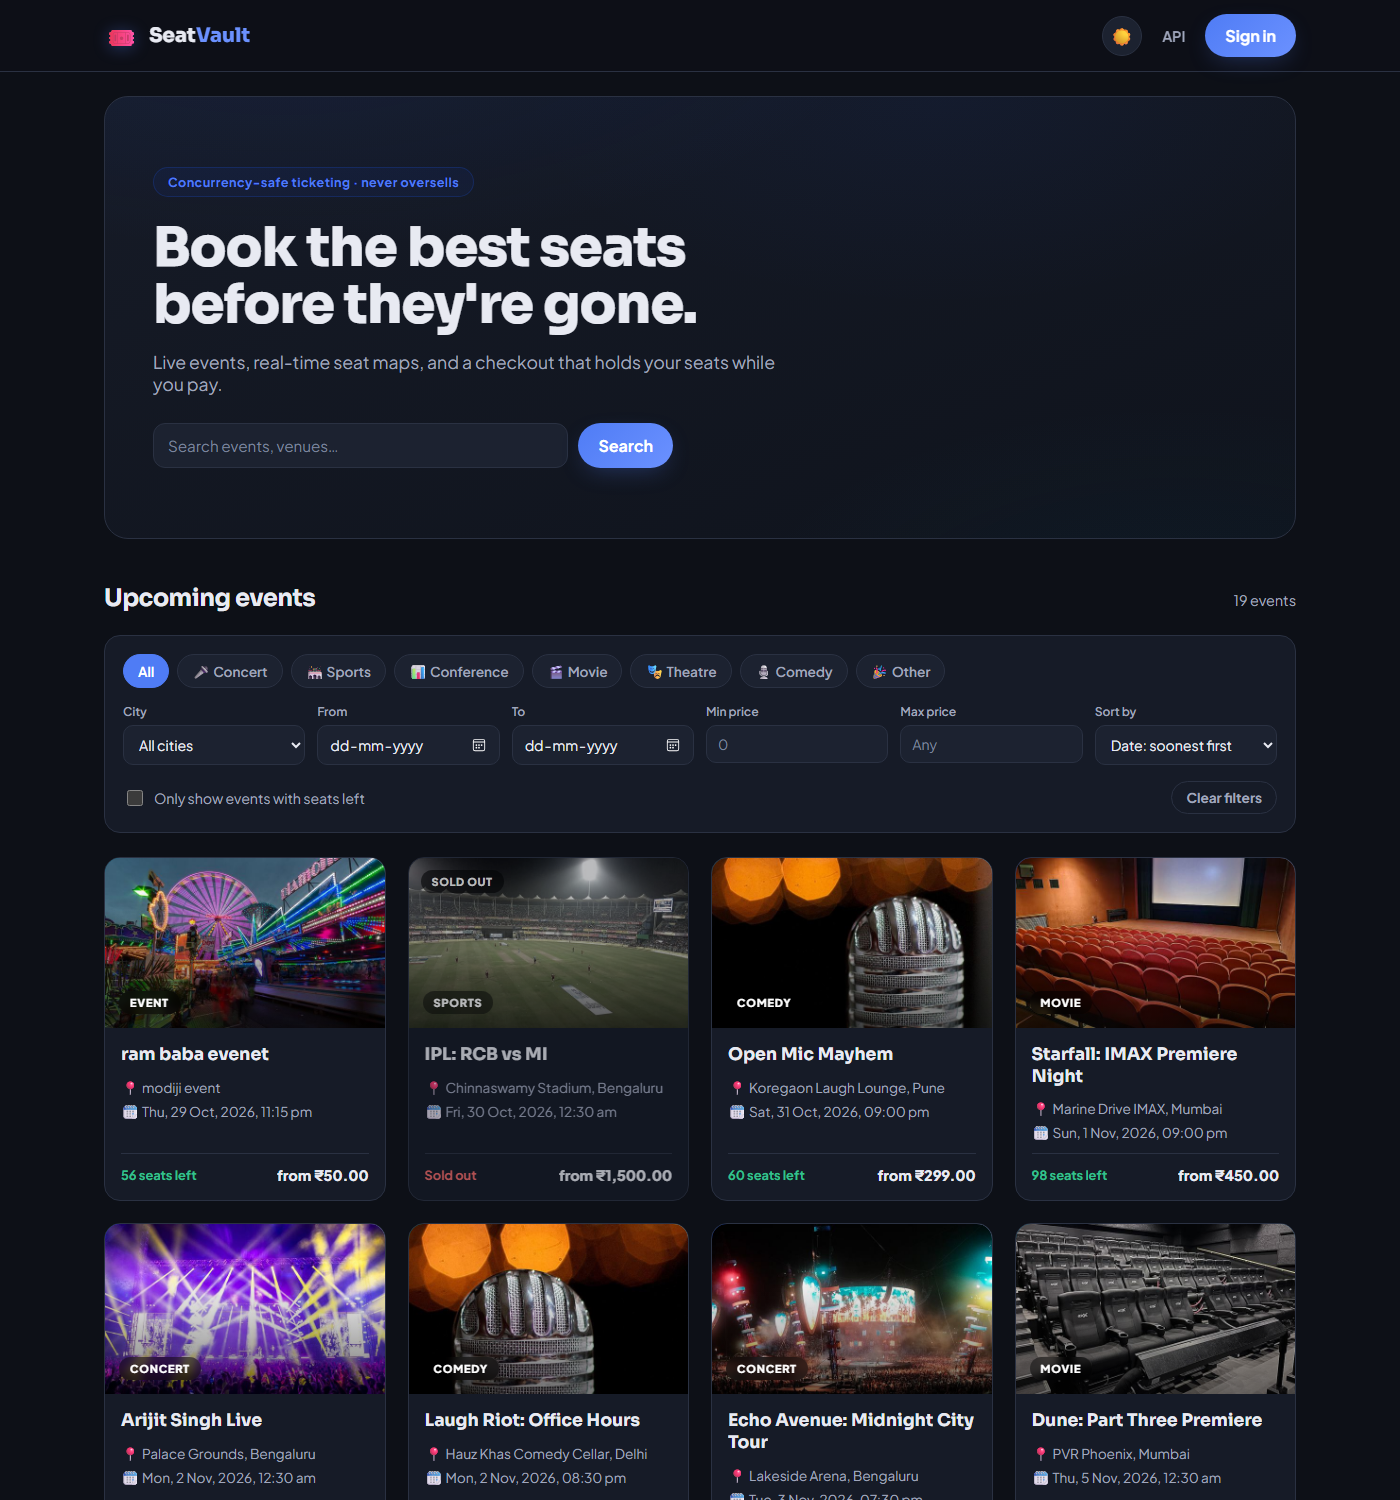
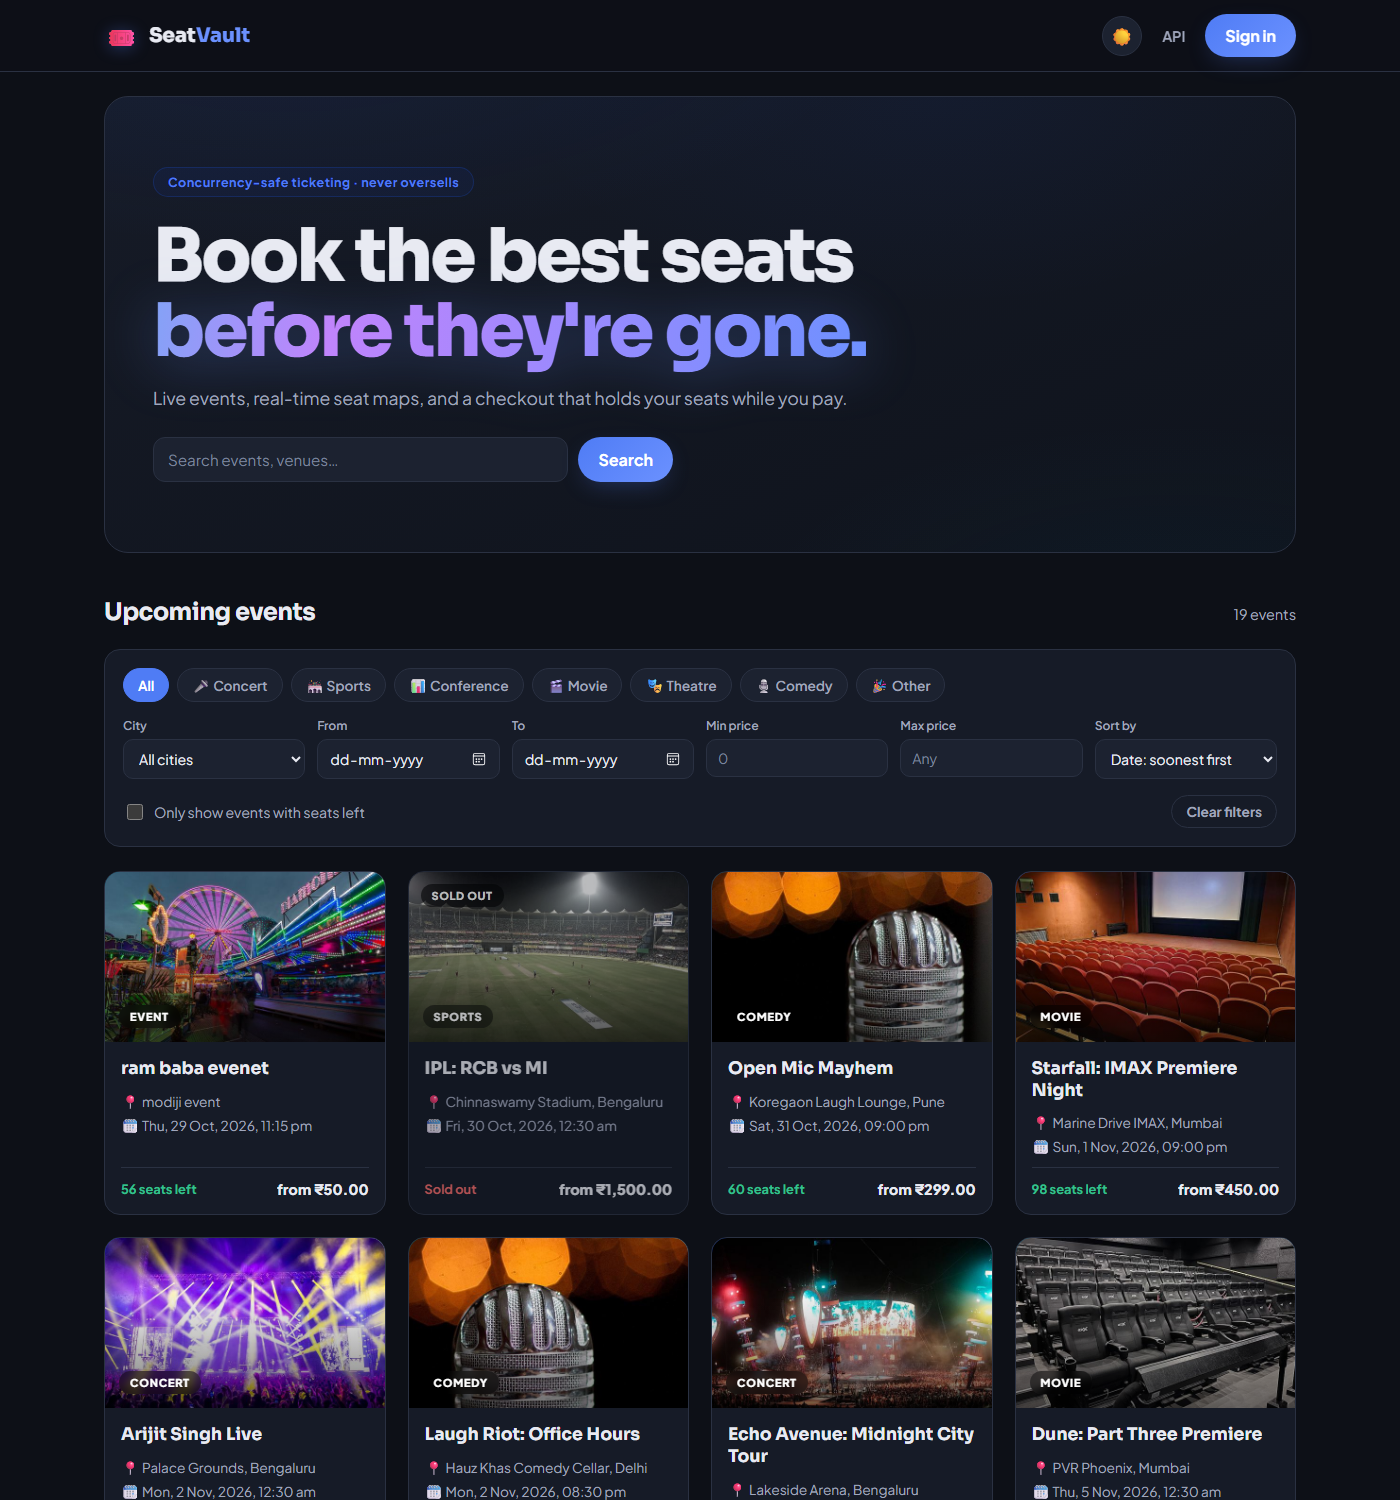
Make the hero headline bolder: larger, tighter, gradient second line
- Headline scales to ~74px with tighter tracking
- 'before they're gone.' in a slow-moving blue/cyan/violet gradient with a soft glow, tuned per theme; animation off for reduced-motion users
- README home screenshots refreshed

diff --git a/src/main/resources/static/styles.css b/src/main/resources/static/styles.css
@@ -144,9 +144,26 @@ code { background: var(--surface-3); padding: 2px 7px; border-radius: 6px; font-
                 radial-gradient(800px 400px at 90% 120%, rgba(14,116,144,.08), transparent 55%),
                 linear-gradient(160deg, var(--hero-from), var(--hero-to)); border: 1px solid var(--border); }
 .hero-glow { position: absolute; inset: 0; background: radial-gradient(600px 300px at 70% 0%, rgba(29,78,216,.06), transparent 70%); pointer-events: none; }
-.hero-content { position: relative; max-width: 640px; }
+.hero-content { position: relative; max-width: 820px; }
 .hero-kicker { display: inline-block; font-size: .78rem; font-weight: 700; letter-spacing: .04em; color: var(--primary); background: rgba(29,78,216,.08); border: 1px solid rgba(29,78,216,.25); padding: 6px 14px; border-radius: 999px; margin-bottom: 22px; }
-.hero h1 { font-size: clamp(2.1rem, 5vw, 3.4rem); line-height: 1.05; font-weight: 800; }
+.hero h1 { font-size: clamp(2.6rem, 6.4vw, 4.6rem); line-height: 1.02; font-weight: 800; letter-spacing: -.035em; }
+/* Second headline line: a slow-moving gradient with a soft glow. */
+.hero-accent {
+    --accent-a: #1d4ed8; --accent-b: #0891b2; --accent-c: #7c3aed;
+    background: linear-gradient(100deg, var(--accent-a) 0%, var(--accent-b) 35%, var(--accent-c) 65%, var(--accent-a) 100%);
+    background-size: 220% 100%;
+    -webkit-background-clip: text; background-clip: text;
+    -webkit-text-fill-color: transparent; color: transparent;
+    filter: drop-shadow(0 6px 24px rgba(37, 99, 235, .22));
+    animation: hero-sheen 9s ease-in-out infinite alternate;
+    padding-bottom: .06em; /* keep descenders inside the clipped gradient */
+}
+:root[data-theme="dark"] .hero-accent {
+    --accent-a: #6b91ff; --accent-b: #22d3ee; --accent-c: #c084fc;
+    filter: drop-shadow(0 6px 28px rgba(107, 145, 255, .35));
+}
+@keyframes hero-sheen { from { background-position: 0% 50%; } to { background-position: 100% 50%; } }
+@media (prefers-reduced-motion: reduce) { .hero-accent { animation: none; } }
 .hero p { color: var(--muted); font-size: 1.1rem; margin: 18px 0 28px; }
 .hero-search { display: flex; gap: 10px; max-width: 520px; }
 .hero-search input { flex: 1; }

diff --git a/src/main/resources/static/index.html b/src/main/resources/static/index.html
@@ -64,7 +64,7 @@
         <div class="hero-glow"></div>
         <div class="hero-content">
             <span class="hero-kicker">Concurrency-safe ticketing · never oversells</span>
-            <h1>Book the best seats<br/>before they're gone.</h1>
+            <h1>Book the best seats<br/><span class="hero-accent">before they're gone.</span></h1>
             <p>Live events, real-time seat maps, and a checkout that holds your seats while you pay.</p>
             <div class="hero-search">
                 <input id="heroSearch" placeholder="Search events, venues…"/>
